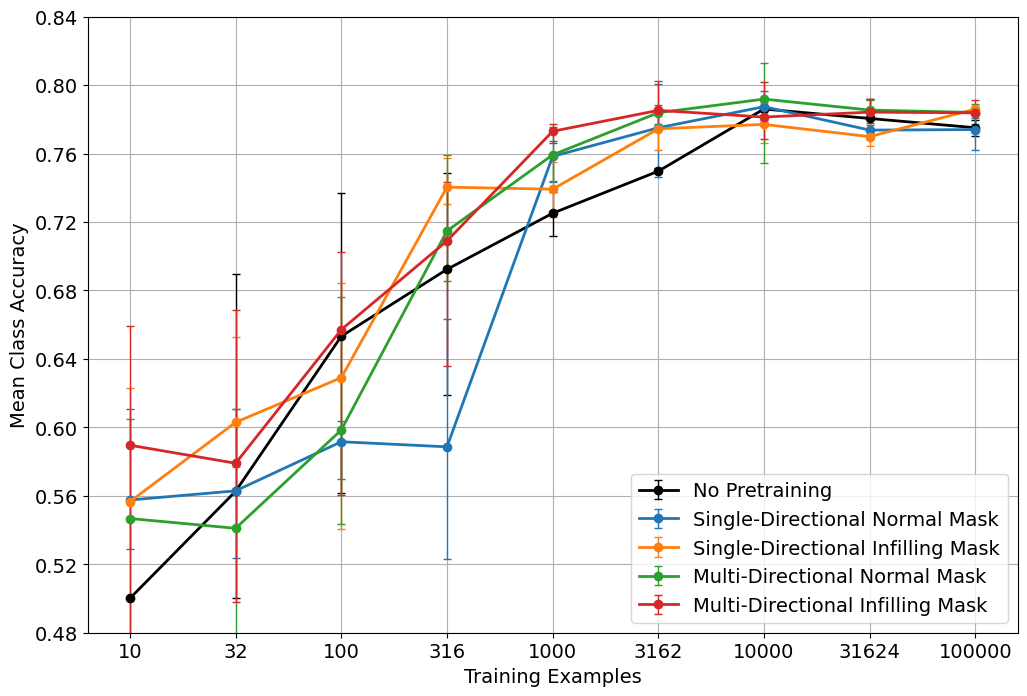
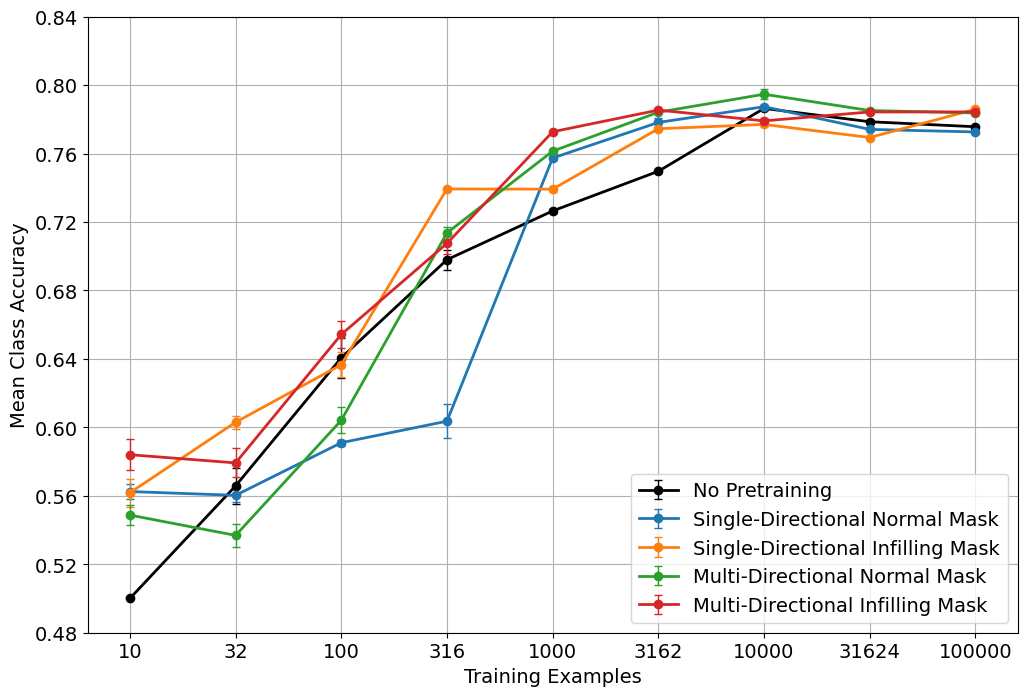
Unsupervised Learning

diff --git a/chapters/unsupervised_learning.tex b/chapters/unsupervised_learning.tex
@@ -96,17 +96,13 @@ In their work, \cite{zhuang2019local} proposed a method for unsupervised represe
 
 \subsubsection{Momentum Contrast}
 \label{subsubsec:momentum_contrast}
-
-% TODO - Explain this better
-
-In their work, \cite{he2020momentum} proposed a method for unsupervised representation learning called momentum contrast. The method uses a dynamic dictionary of keys to train an encoder. Specifically, the encoder is trained using a contrastive loss, which compares the representation of a query image to the key representations from the dynamic dictionary, which is made up of a queue of data samples. The authors claim that the use of a large and dynamic dictionary allows for an effective sampling of high-dimensional visual space, which results in competitive performance. This is supported by the experimental results presented in the work, which show that the learned feature representations can be used to pre-train encoders for a variety of tasks such as classification, detection, and segmentation. This highlights the potential of the Momentum Contrast method for unsupervised representation learning in computer vision tasks.
+\cite{he2020momentum} proposed a method for unsupervised representation learning called momentum contrast. This approach leverages dynamic dictionaries and employs a contrastive loss framework to yield notable advancements in unsupervised learning within the domain of computer vision. Momentum contrast’s use of dynamic dictionary in contrast to static dictionaries continually evolves to encompass key representations drawn from a queue of data samples. This adaptability enables the method to effectively navigate the intricate expanse of high-dimensional visual space, capturing intricate relationships between features and patterns of the underlying data distribution. A contrastive loss function is used during training that represents the alignment between an image representation and key representation from the dynamic dictionary. By minimising this distance, the encoder is induced to acquire discriminative features that can be used to obtain superior performance in downstream tasks. This is supported by the experimental results presented in the work, which show that the learned feature representations can be used to pre-train encoders for a variety of tasks such as classification, detection, and segmentation. This highlights the potential of the momentum contrast method for unsupervised representation learning in computer vision tasks.
 
 \subsubsection{Pretext-Invariant Representations}
 \label{subsubsec:pretext_invariant_representations}
+\cite{misra2020self} illuminates the drawbacks intrinsic to the utilisation of pretext tasks for self-supervised representation learning. Usually pretext tasks are instructed to solve a specific task that lacks correlation with the downstream tasks and instead of improving performance for downstream tasks may lead to overfitting and constrained generalisation. To address this issue, the authors proposed a novel approach called pretext-invariant representation learning. This method involves applying a transformation, such as a rotation, to an input image, and then encoding both the original and transformed images using a shared encoder. The final embeddings are generated using separate prediction heads. To further improve the robustness of the learned representations, the authors employed a noise contrastive estimator~\citep{gutmann2010noise} as the loss function, which aims to reduce the similarity between the original and transformed image’s feature representation, while maximising the similarity between the transformed image and randomly sampled negative images. 
 
-% TODO - Explain this better
-
-In a recent study, \cite{misra2020self} highlighted a limitation of using pretext tasks for self-supervised representation learning, specifically that it can result in overfitting and poor generalisation to other tasks. To address this issue, the authors proposed a novel approach called pretext-invariant representation learning. This method involves applying a transformation, such as a rotation, to an input image, and then encoding both the original and transformed images using a shared encoder. The final embeddings are generated using separate prediction heads. To further improve the robustness of the learned representations, the authors employed a noise contrastive estimator~\citep{gutmann2010noise} as the loss function, which aims to reduce the similarity between the original and transformed images, while maximising the similarity between the transformed image and randomly sampled negative images. The encoder used in the study was a ResNet~\citep{he2016deep}, and the authors demonstrated the effectiveness of the proposed approach by achieving state-of-the-art results using a jigsaw pretext task~\citep{noroozi2016unsupervised}, where the model arranges shuffled image patches.
+In their experiments the authors used a ResNet~\citep{he2016deep} architecture to function as the encoder for representation generation. To substantiate the effectiveness of their approach, the authors subject their method to a comparative evaluation against a jigsaw pretext task~\citep{noroozi2016unsupervised}. The jigsaw pretext task entails the arrangement of shuffled patches within an image, with its objective being the capture of spatial relationships and contextual cues. The pretext-invariant representation learning technique surpasses the performance of this pretext task, attaining state-of-the-art outcomes.
 
 \subsubsection{Deep InfoMax}
 \label{subsubsec:DIM}
@@ -241,6 +237,9 @@ The CPC models took an average of 33 hours to train using a single Nvidia GeForc
 	\label{fig:cpc_training}
 \end{figure}
 
+\subsection{Results}
+\label{subsec:unsupervised_results}
+
 \begin{table}[h]
 	\centering
 	\caption{Mean test accuracies of the CNN classifiers with different pre-training (95\% confidence intervals in parentheses).}
@@ -266,25 +265,25 @@ The CPC models took an average of 33 hours to train using a single Nvidia GeForc
 	}
 \end{table}
 
-\subsection{Results}
-\label{subsec:unsupervised_results}
+The research conducted a comprehensive evaluation of CNN classifiers' performance using a held-out testing dataset consisting of 32,768 images. These CNN classifiers were initialised with different sets of weights and biases transferred from various CPC encoders. To ensure robustness of the results, the experimentation process was repeated three times, with 100 bootstraps sampled from the metrics from these runs. This technique helps to capture the inherent variability in model performance due to different initialisations and data splits. The key metrics used to gauge the effectiveness of the different models were the mean accuracies and their associated 95\% confidence intervals. These metrics were presented in both a tabular format (Table~\ref{tab:cpc_cnn_results}) and a graphical format (Figure~\ref{fig:cpc_cnn_results}). The mean accuracies provide a general overview of how well the models performed, while the confidence intervals offer insights into the stability and variability of the predictions. A baseline approach was included that involved training CNN without any pretraining. It’s important to note that these baseline results cannot be directly compare to the outcomes presented in Chapter~\ref{ch:active_learning} since the experiments presented there focuses on different distinct tasks with other datasets.
 
-% Make reference to the confidence intervals.
+The results revealed several patterns, including the CNN that were trained using a small amount of annotated data showed higher accuracies when initialised with parameters from CPC models that used the multi-directional PixelCNN autoregressor. This implies that the CPC-based pretraining is particularly advantageous when dealing with limited labelled data when access to annotated data is limited. The standard CPC approach faced challenges in learning representations suitable for transfer learning and instead lead to instances where the accuracy of the model initialised with CPC parameters was worse when compared to a CNN initialised randomly. As the number of annotated images increased, the advantage of using CPC pretraining diminished. This implies that the benefits of transfer learning from CPC encoders become less prominent when a larger annotated dataset is available, and in some cases, randomly initialised weights might be sufficient or even outperform CPC-based initialisations.
 
-The results obtained from the held-out testing set, consisting of 32,768 images, for the CNN classifiers initialised with various CPC encoders' weights and biases. 100 bootstraps from the multiple runs were sampled and the mean accuracies and 95\% confidence intervals of the 100 bootstraps are presented in Table~\ref{tab:cpc_cnn_results} and the mean accuracies and 95\% tolerance intervals of the 100 bootstraps are presented in Figure~\ref{fig:cpc_cnn_results}. In addition, a baseline approach was employed, which utilised CNN models with no pretraining, these baselines are not comparable to the results presented in Chapter~\ref{ch:active_learning} as the experiments were different tasks. The outcomes demonstrate that the CNNs trained with a small amount of annotated data exhibit higher accuracies when initialised with a multi-directional autoregressive model. However, the standard CPC encounters challenges in learning a representation that is suitable for initialising a CNN classifier, leading to lower accuracies in some instances compared to those initialised using random weights. The results suggest that the transfer learning approach utilising CPC pretraining is most effective when the number of annotated images is limited, as the benefit of using the CPC pretraining diminishes as the number of images increases. Moreover, Table~\ref{tab:cpc_cnn_results} depicts the ablation results obtained by employing two components: infilling style mask and a multi-directional autoregressive model. The findings indicate that using an infilling style mask is the most critical component as both models that include infilling style masks achieve the best results. However, the CPC model utilising a multi-directional autoregressive model and a normal mask performs optimally when larger subsets of the dataset are utilised.
-
-\begin{figure}[h]
+\begin{figure}[tb]
 	\centering
 	\includegraphics[width=\textwidth]{images/cpc_cnn_results.png}
-	\caption{Mean class testing accuracies of the CNN classifiers trained using varying amounts of training examples, with 95\% tolerance intervals shown using error bars.}
+	\caption{Mean class testing accuracies of the CNN classifiers trained using varying amounts of training examples, with 95\% confidence intervals shown using error bars.}
 	\label{fig:cpc_cnn_results}
 \end{figure}
+
+Table~\ref{tab:cpc_cnn_results} depicts the ablation results obtained by employing two components: the use of an infilling style mask and the incorporation of a multi-directional PixelCNN autoregressive model. The finding emphasised that the infilling style mask played a crucial role, as the CNN models initialised with CPC models trained with infilling style masks consistently achieved the best results with limited annotated data. However, the CPC model combining a multi-directional PixelCNN autoregressive model with a normal single directional mask demonstrated optimal performance when dealing with larger subsets of the dataset. The confidence intervals reported in Table~\ref{tab:cpc_cnn_results} provided insights into the stability of the methods' predictions. They showed that the model predictions were relatively stable, with slightly more variability arising from the additional components of the multi-directional CPC approach. This added variability was balanced by an increase in the mean performance, suggesting a slight trade-off between stability and performance enhancement.
 
 
 
 \section{Conclusion}
 \label{sec:conclusion}
+The findings presented in Section~\ref{subsec:unsupervised_results} shed light on the performance of the original CPC implementation as applied to patch-based digital pathology tasks. The research conducted in this study, which builds upon the work of \cite{oord2018representation}, uncovers that the initial version of CPC does not exhibit desirable outcomes within the context medical image analysis. However, in response to this limitation, a novel approach involving multi-directional modifications to the CPC framework was proposed and examined. 
 
-% Discuss results more including confidence and tolerance intervals.
+This innovative adaptation led to significant improvements in results, as evidenced by enhanced classification accuracies, especially in scenarios where access to annotated data was constrained. Although there was a slight trade-off between stability and accuracy was observed in the experiments. This shows that the potential of the proposed multi-directional CPC modifications could be a valuable tool in scenarios when dealing with rotation invariant medical images and annotated data is scarce. 
 
-The experimental results presented in Section~\ref{subsec:unsupervised_results} demonstrate that the original implementation of CPC~\citep{oord2018representation} does not perform well on patch-based digital pathology tasks. The proposed multi-directional modifications to the CPC, however, yielded better results and improved classification accuracies when annotated data were limited. These experiments illustrate that algorithms based on an assumption of image directionality, as is common in standard computer vision datasets such as CIFAR~\citep{krizhevsky2009learning} and ImageNet~\citep{deng2009imagenet}, may not perform well on images without such directionality. The results of this study suggest that the proposed multi-directional CPC method can be applied to other visual tasks where image orientation is unimportant, as is the case in multiple biomedical imaging settings.
+This study brings to the forefront the notion that methods built upon the presumption of inherent image directionality may not be optimal when applied to images devoid of such directional cues, as is often the case in certain biomedical imaging settings. General purpose algorithms should be evaluated on diverse datasets instead of the standard computer vision datasets such as CIFAR~\citep{krizhevsky2009learning} and ImageNet~\citep{deng2009imagenet} that are rooted in image directionality. The implications of the research findings are not confined solely to patch-based digital pathology tasks. Rather, they propose a broader application of the multi-directional CPC methodology to a diverse array of visual tasks in which the concept of image orientation holds little relevance. This encompasses various scenarios within the realm of biomedical imaging, as well as potentially extending to other domains where image directionality is not a crucial factor. In essence, the study advocates for the integration of this innovative approach as a versatile solution for tasks that involve images characterized by their orientation-agnostic nature.

diff --git a/main.tex b/main.tex
@@ -115,7 +115,7 @@
 	\addcontentsline{toc}{chapter}{Acknowledgements}
 	I dedicate this thesis to all the people who have helped me along my PhD journey and would like to express my sincere gratitude to them.
 	
-	I want to thank my wife \textbf{Tasnim} first and foremost for her unwavering support, encouragement, and tolerance. Without her, I would not have been able to complete this. She has been my pillar and my motivation. She has always encouraged me to pursue my goals and has always had faith in me. She is an incredible blessing in my life.
+	I want to thank my partner \textbf{Tasnim} first and foremost for her unwavering support, encouragement, and tolerance. Without her, I would not have been able to complete this. She has been my pillar and my motivation. She has always encouraged me to pursue my goals and has always had faith in me. She is an incredible blessing in my life.
 	
 	I also want to express my gratitude to my supervisor, \textbf{Professor Stephen McKenna}, for his advice and assistance over the years. He has taught me how to conduct amazing research and communicate clearly. He has been a great mentor and role model for me. He has also given me numerous chances to develop both personally and as a researcher. I have learned so much from him and I am honoured to be his student.
 	
